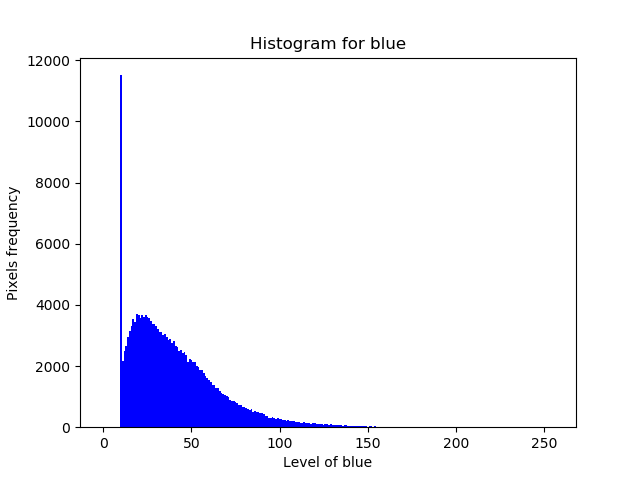
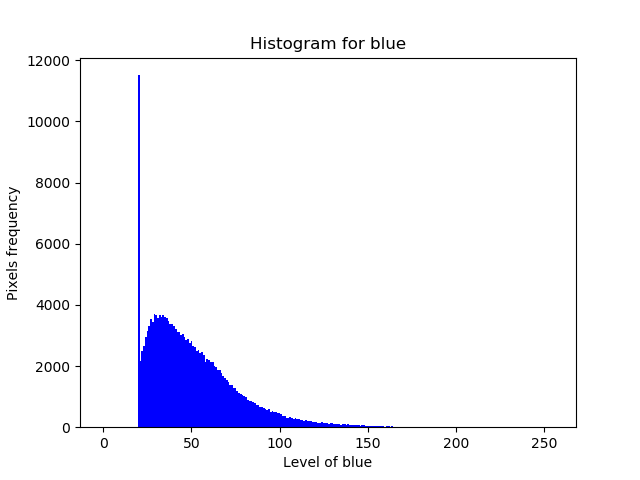
Permitindo a passagem do level de brightness pela linha de comando

Changed region(s): [[0.1875, 0.1562, 0.4688, 0.9062], [0.4688, 0.875, 0.5, 0.9062]]

diff --git a/exe01.py b/exe01.py
@@ -274,6 +274,11 @@ if __name__ == "__main__":
         type=str,
         help="Path where we save the histogram and the image after effects",
     )
+    parser.add_argument(
+        "--brightness",
+        type=int,
+        help="Number between -255 and 255",
+    )
     args = parser.parse_args()
 
     # Histogram for the original picture
@@ -291,7 +296,7 @@ if __name__ == "__main__":
     )
 
     # Histogram for the picture after brightness
-    new_image = change_brightness(img_matrix, 10)
+    new_image = change_brightness(img_matrix, args.brightness)
 
     save_image(
         new_image,
